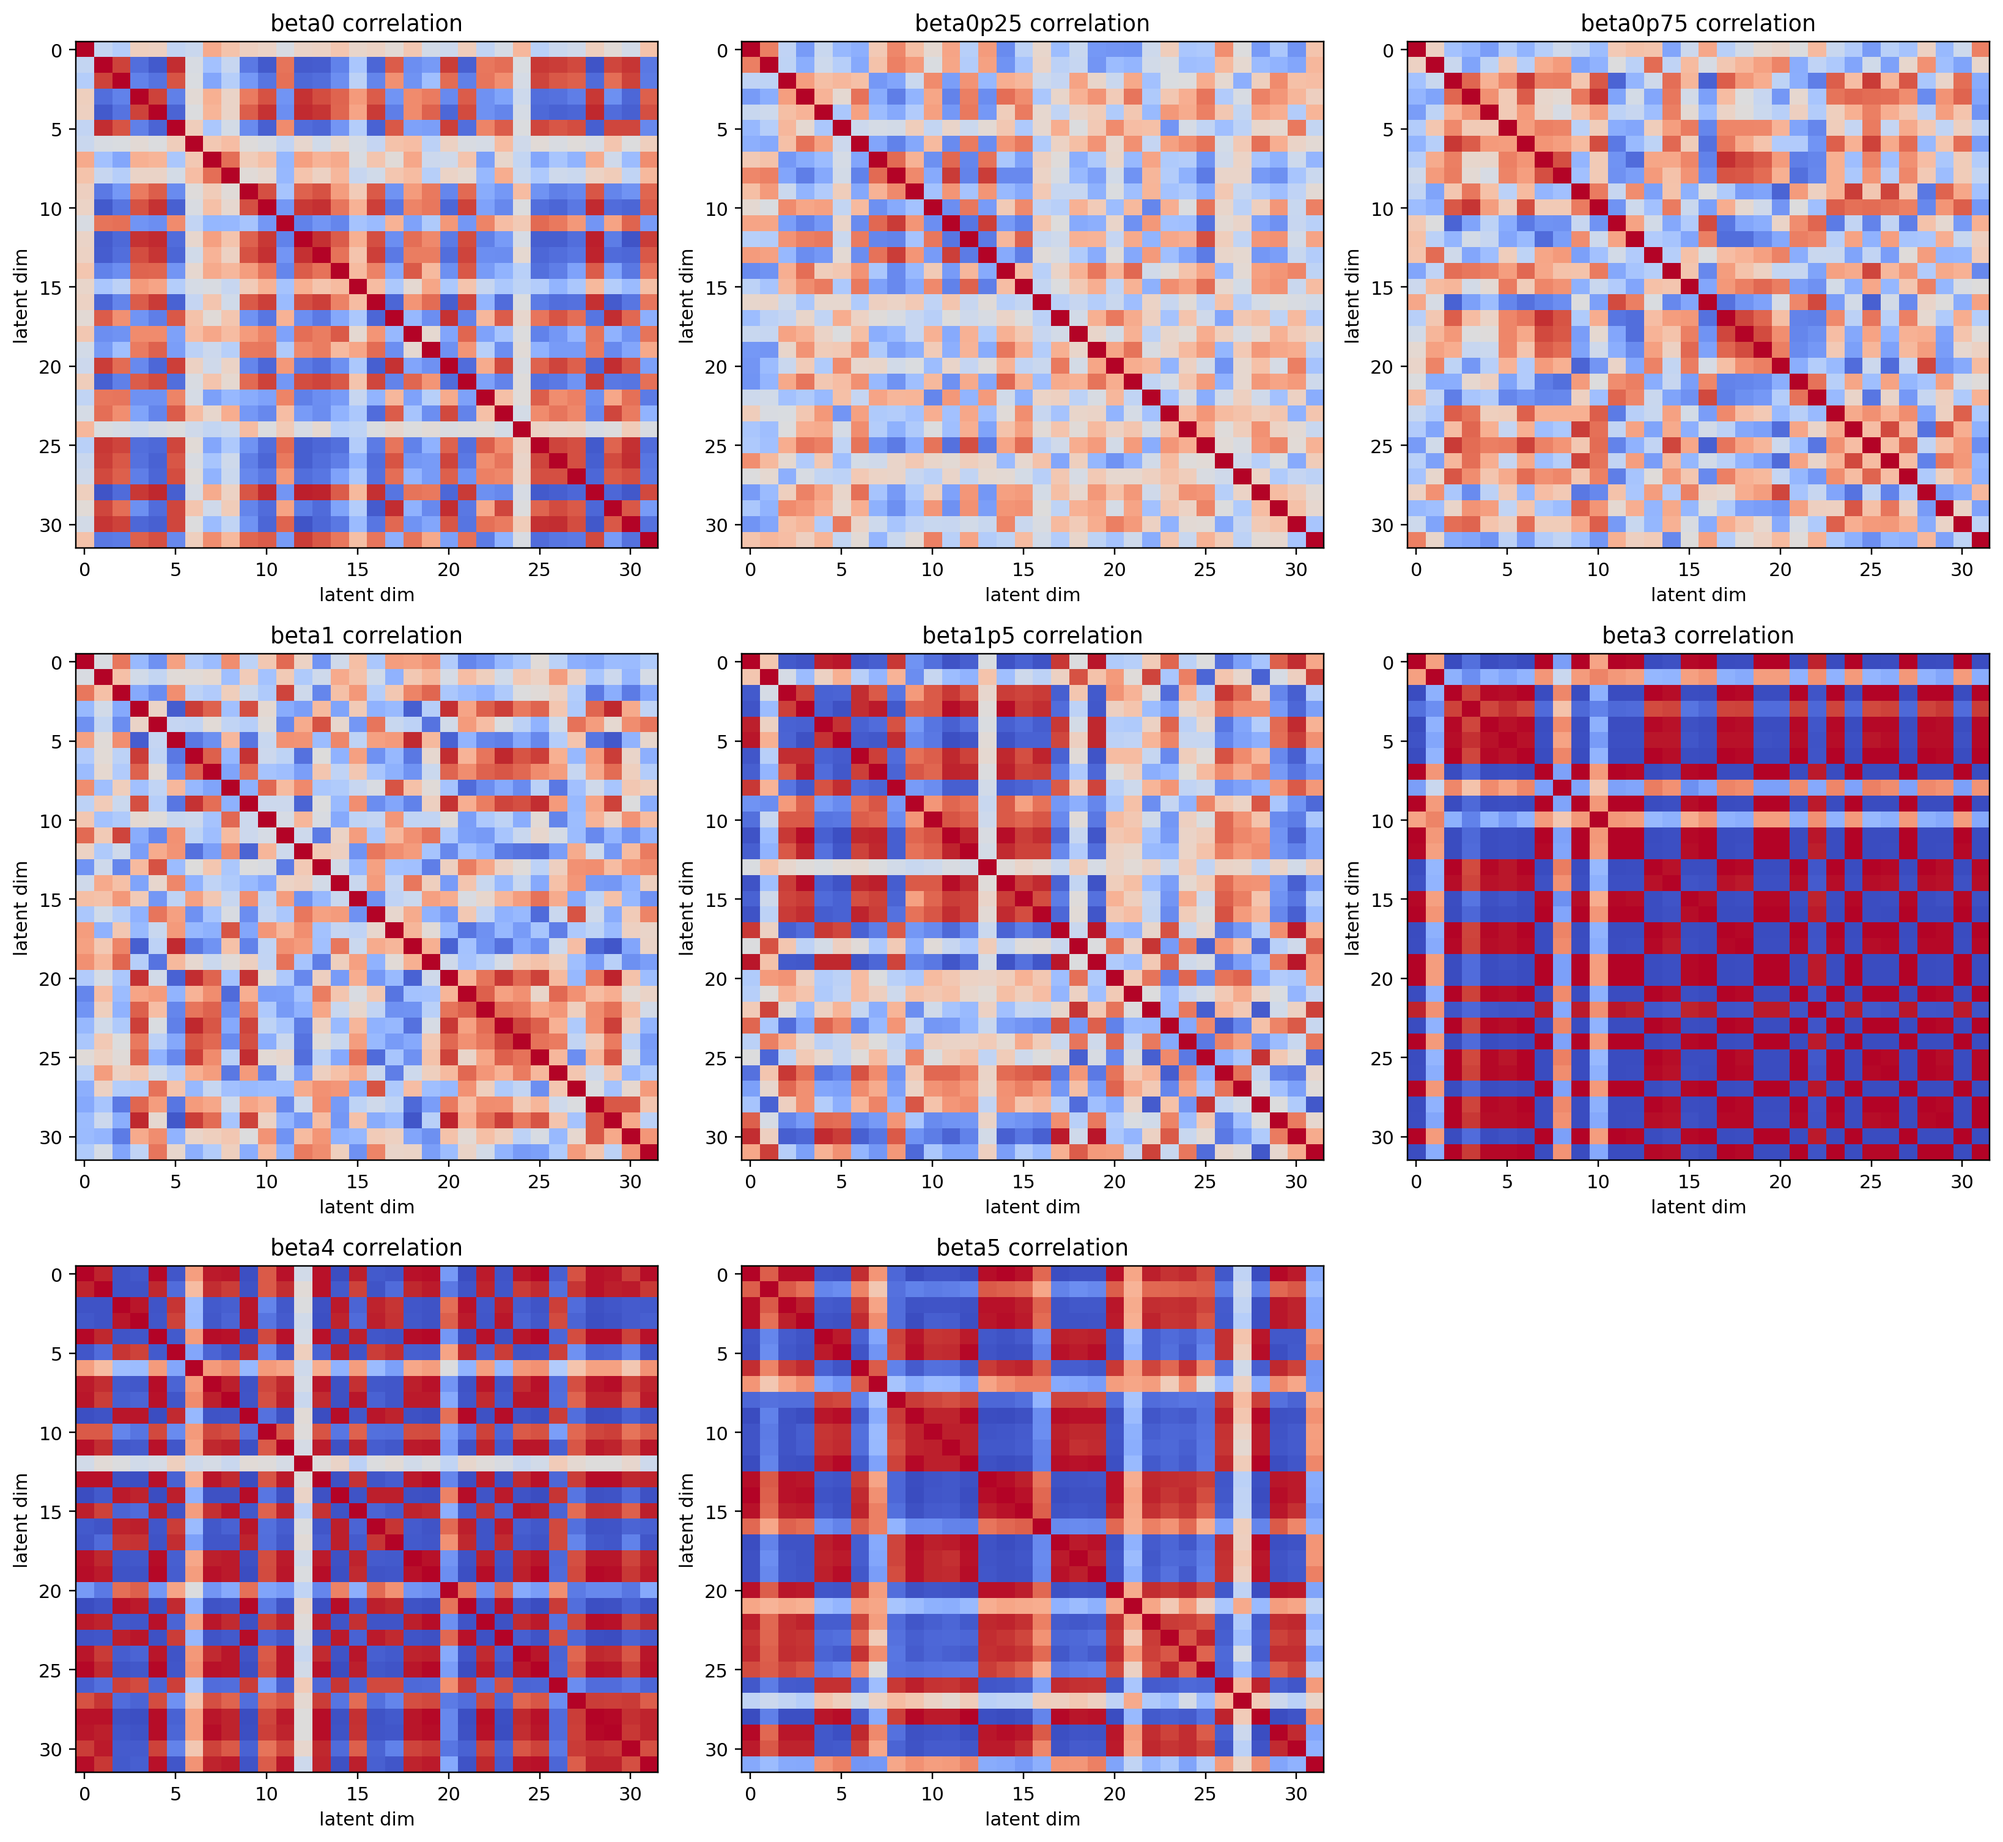
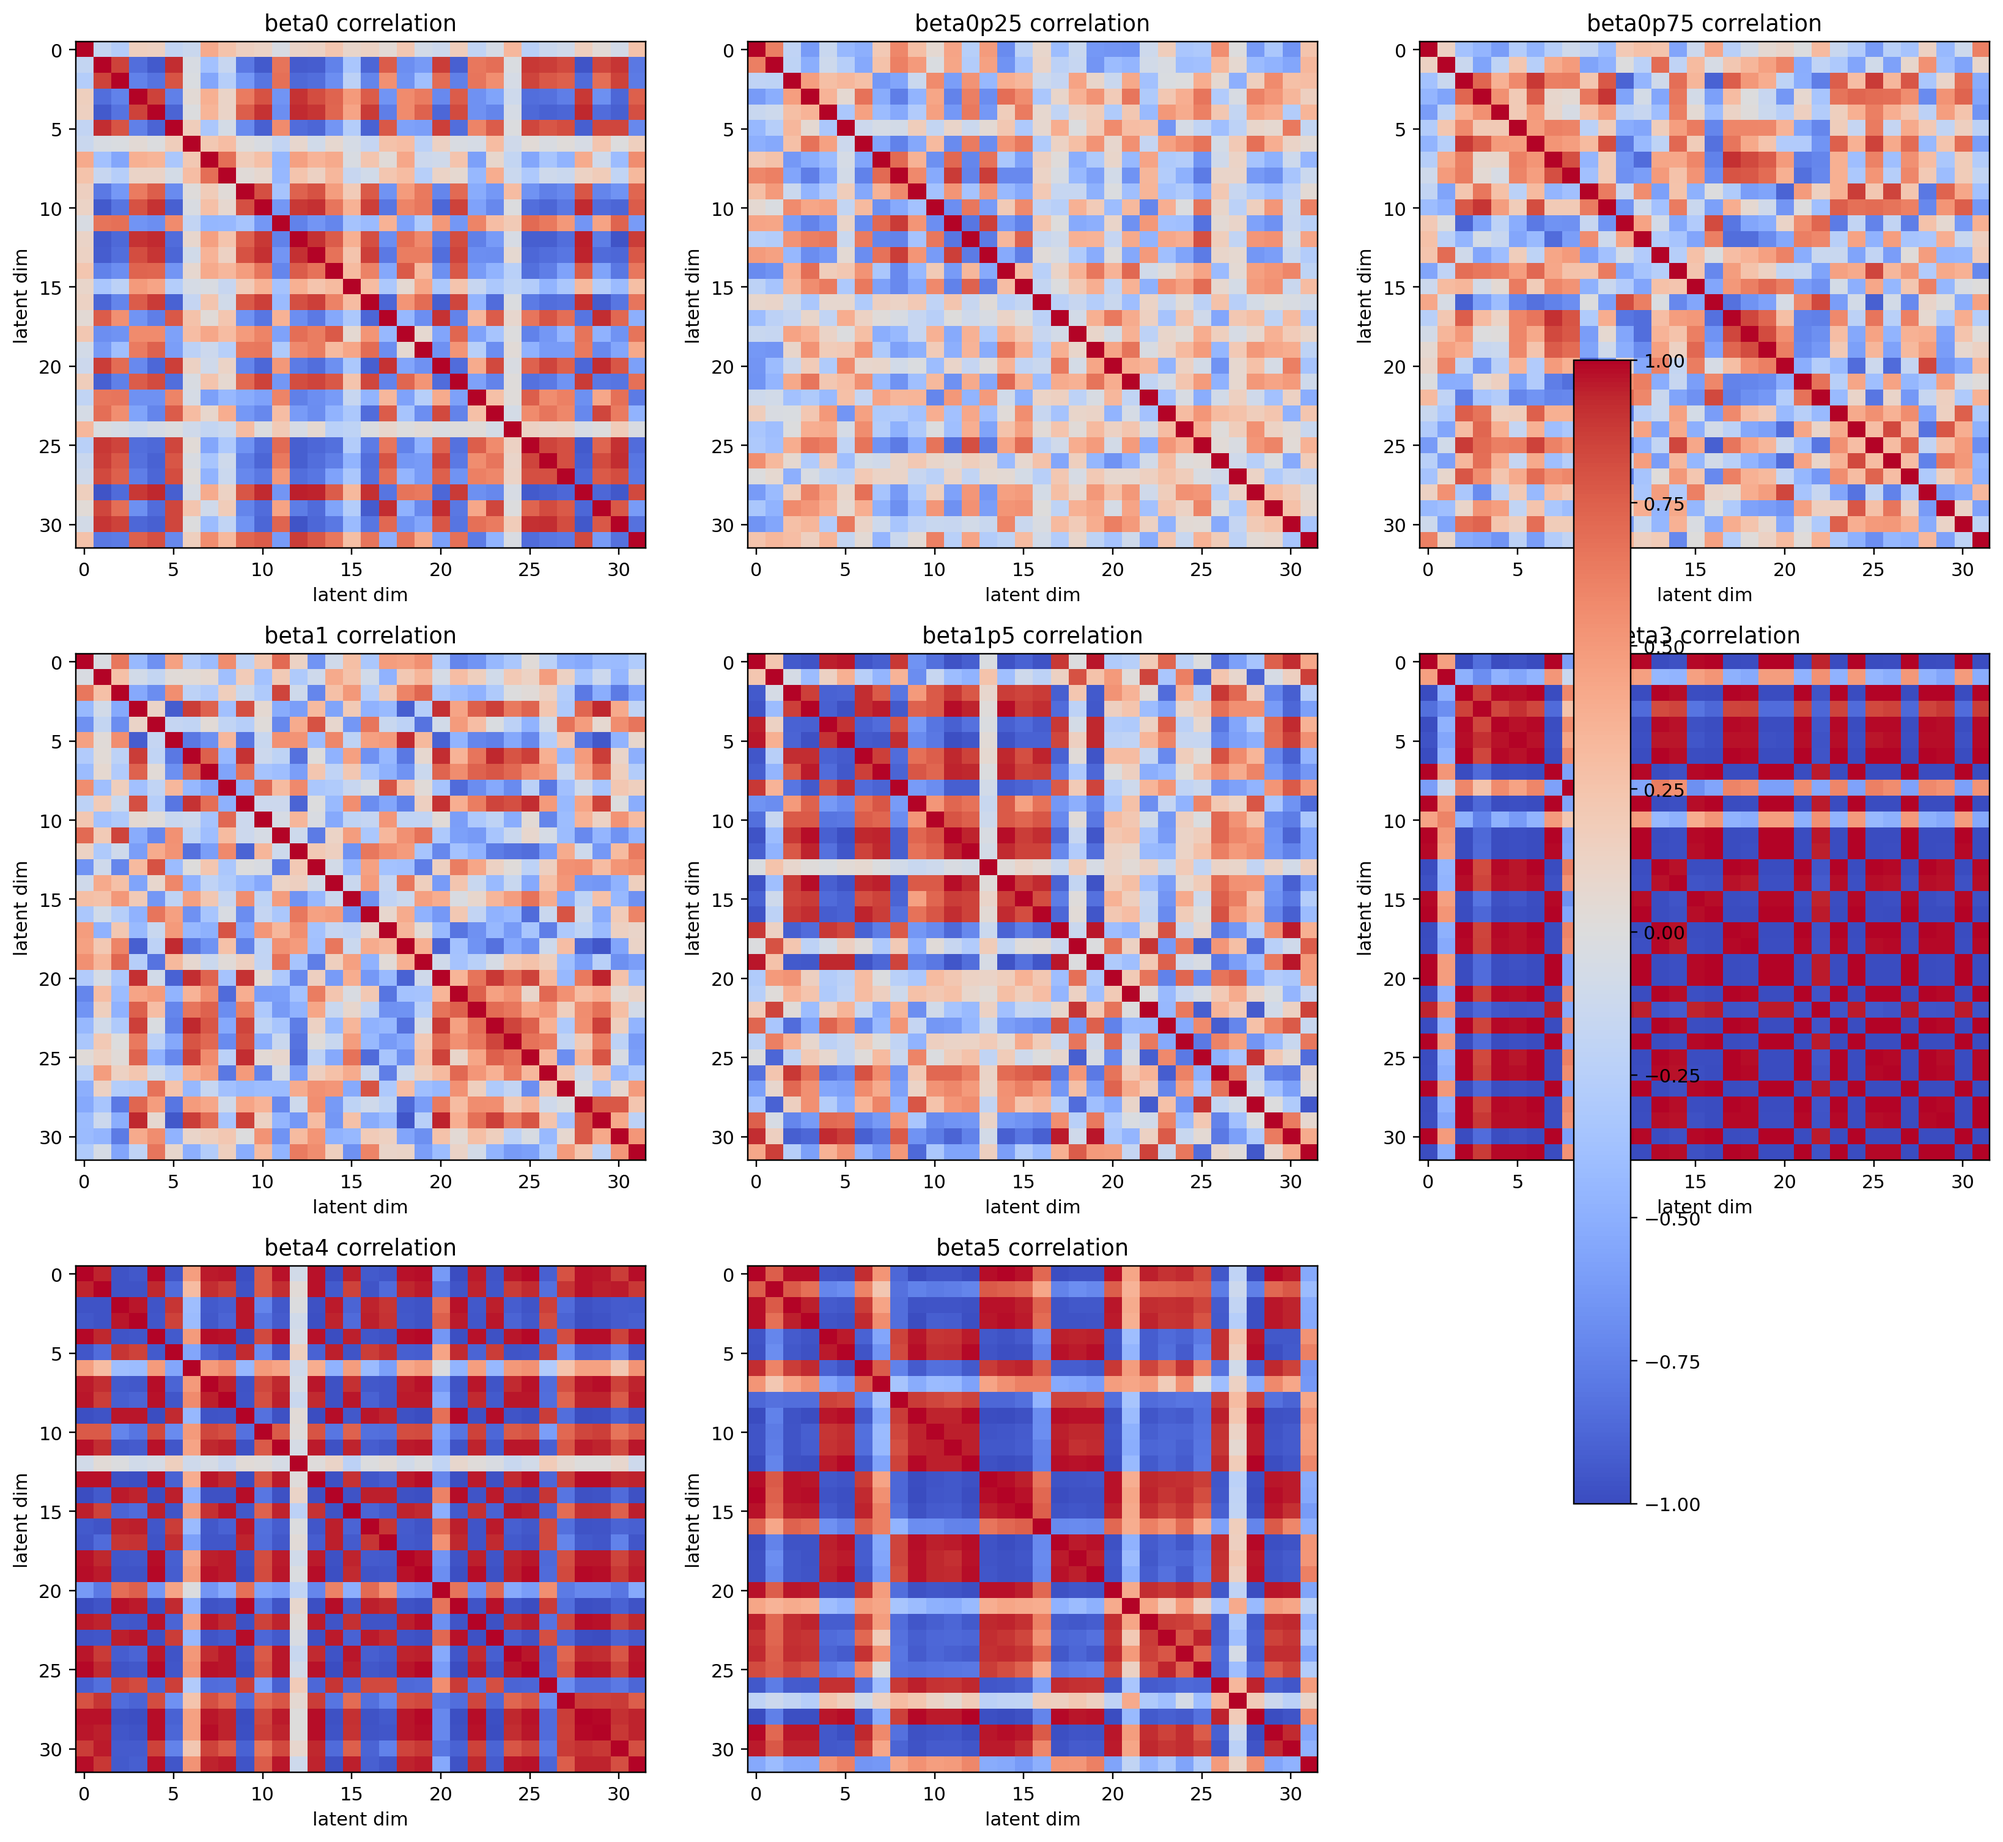
checking

Changed region(s): [[0.0623, 0.0, 0.467, 0.9987], [0.5604, 0.0, 0.9341, 0.8426], [0.5604, 0.6866, 0.685, 0.9675]]

diff --git a/VPL/pref_learn/utils/data_utils.py b/VPL/pref_learn/utils/data_utils.py
@@ -1,6 +1,7 @@
+
 import os
 import pickle
-from typing import Optional, Sequence, Tuple
+from typing import Optional, Tuple
 
 import numpy as np
 from tqdm import tqdm
@@ -13,6 +14,7 @@ PairKey = Tuple[SegmentKey, SegmentKey]
 
 
 def sample_from_env(env, num_query, len_set, len_query, data_dir):
+    """Fallback random sampler used by some environments."""
     assert len_query == 1
     observation_dim = env.reward_observation_space.shape[-1]
     action_dim = env.action_space.shape[-1]
@@ -26,25 +28,22 @@ def sample_from_env(env, num_query, len_set, len_query, data_dir):
     ).reshape(num_query, len_set, len_query, observation_dim)
     seg_act_1 = np.stack(
         [env.action_space.sample() for _ in range(num_query * len_set)], axis=1
-    ).reshape(num_query, len_set, len_query, observation_dim)
+    ).reshape(num_query, len_set, len_query, action_dim)
     seg_act_2 = np.stack(
         [env.action_space.sample() for _ in range(num_query * len_set)], axis=1
-    ).reshape(num_query, len_set, len_query, observation_dim)
+    ).reshape(num_query, len_set, len_query, action_dim)
     labels = np.zeros((num_query, len_set))
 
     query_path = os.path.join(
         data_dir, f"queries_num{num_query}_q{len_query}_s{len_set}"
     )
-    batch = {}
-    batch["labels"] = labels.reshape(num_query, len_set, 1)
-    batch["observations"] = seg_obs_1.reshape(
-        num_query, len_set, len_query, observation_dim
-    )
-    batch["observations_2"] = seg_obs_2.reshape(
-        num_query, len_set, len_query, observation_dim
-    )
-    batch["actions"] = seg_act_1.reshape(num_query, len_set, len_query, action_dim)
-    batch["actions_2"] = seg_act_2.reshape(num_query, len_set, len_query, action_dim)
+    batch = {
+        "labels": labels.reshape(num_query, len_set, 1),
+        "observations": seg_obs_1.reshape(num_query, len_set, len_query, observation_dim),
+        "observations_2": seg_obs_2.reshape(num_query, len_set, len_query, observation_dim),
+        "actions": seg_act_1.reshape(num_query, len_set, len_query, action_dim),
+        "actions_2": seg_act_2.reshape(num_query, len_set, len_query, action_dim),
+    }
     with open(query_path, "wb") as fp:
         pickle.dump(batch, fp)
 
@@ -56,7 +55,8 @@ def _segment_key(trj_idx: int, time_idx: int, len_query: int) -> SegmentKey:
 
 
 def _pair_key(seg_a: SegmentKey, seg_b: SegmentKey) -> PairKey:
-    return tuple(sorted((seg_a, seg_b)))  # order-invariant left/right pair id
+    # Order invariant so swapping left/right does not create a "new" query pair.
+    return tuple(sorted((seg_a, seg_b)))
 
 
 def _sample_segment(
@@ -79,8 +79,9 @@ def _sample_segment(
     assert end_idx <= trj_idx_list[trj_idx][1] + 1
 
     reward_seq = dataset["rewards"][start_idx:end_idx]
+    reward_sum = float(np.sum(reward_seq))
+
     if first_reward_sum is not None:
-        reward_sum = float(np.sum(reward_seq))
         if skip_flag == 1 and first_reward_sum == reward_sum:
             return None
         if skip_flag == 2 and first_reward_sum == reward_sum:
@@ -103,6 +104,7 @@ def _sample_segment(
         "act_seq": act_seq,
         "timestep_seq": timestep_seq,
         "seg_key": _segment_key(trj_idx, time_idx, len_query),
+        "reward_sum": reward_sum,
     }
 
 
@@ -120,15 +122,12 @@ def get_queries_from_multi(
 ):
     """Sample query pairs and group them into sets.
 
-    Improvements over the original implementation:
-      * avoids repeated unordered query pairs across the full dataset when
+    This version fixes the main issue in the original code:
+      * no repeated unordered query pairs across the full dataset when
         ``ensure_unique_pairs`` is True
-      * avoids reusing the same segment within a set when
+      * no repeated segment within a set when
         ``ensure_unique_segments_within_set`` is True
-      * stores trajectory/time metadata for easier auditing
-
-    Note: query uniqueness is enforced on the unordered segment pair
-    ((traj_1, time_1), (traj_2, time_2)), so swapping left/right counts as a repeat.
+      * stores trajectory/time metadata needed for auditing and downstream analysis
     """
     _num_query = num_query
     total_pairs = num_query * len_set
@@ -175,9 +174,8 @@ def get_queries_from_multi(
         for within_set_idx in range(len_set):
             pair_slot = set_idx * len_set + within_set_idx
             first_segment = None
-            first_reward_sum = None
 
-            for attempt in range(max_sampling_attempts_per_pair):
+            for _ in range(max_sampling_attempts_per_pair):
                 candidate_first = _sample_segment(
                     dataset,
                     trj_idx_list,
@@ -195,8 +193,8 @@ def get_queries_from_multi(
                 ):
                     continue
                 first_segment = candidate_first
-                first_reward_sum = float(np.sum(first_segment["reward_seq"]))
                 break
+
             if first_segment is None:
                 raise RuntimeError(
                     "Failed to sample the first segment for a query pair. "
@@ -205,7 +203,7 @@ def get_queries_from_multi(
                 )
 
             second_segment = None
-            for attempt in range(max_sampling_attempts_per_pair):
+            for _ in range(max_sampling_attempts_per_pair):
                 candidate_second = _sample_segment(
                     dataset,
                     trj_idx_list,
@@ -213,7 +211,7 @@ def get_queries_from_multi(
                     valid_trj_indices,
                     len_query,
                     skip_flag=skip_flag,
-                    first_reward_sum=first_reward_sum,
+                    first_reward_sum=first_segment["reward_sum"],
                 )
                 if candidate_second is None:
                     continue
@@ -229,6 +227,7 @@ def get_queries_from_multi(
                     continue
                 second_segment = candidate_second
                 break
+
             if second_segment is None:
                 raise RuntimeError(
                     "Failed to sample a unique second segment for a query pair. "
@@ -263,50 +262,28 @@ def get_queries_from_multi(
     seg_reward_1 = total_reward_seq_1.copy()
     seg_reward_2 = total_reward_seq_2.copy()
 
-    seg_obs_1 = total_obs_seq_1.copy()
-    seg_obs_2 = total_obs_seq_2.copy()
-
-    seg_next_obs_1 = total_next_obs_seq_1.copy()
-    seg_next_obs_2 = total_next_obs_seq_2.copy()
-
-    seq_act_1 = total_act_seq_1.copy()
-    seq_act_2 = total_act_seq_2.copy()
-
-    seq_timestep_1 = total_timestep_1.copy()
-    seq_timestep_2 = total_timestep_2.copy()
-
-    rational_labels = get_labels(seg_reward_1, seg_reward_2)
-
-    batch = {}
-    batch["labels"] = rational_labels.reshape(_num_query, len_set, 1)
-    batch["observations"] = seg_obs_1.reshape(
-        _num_query, len_set, len_query, observation_dim
-    )
-    batch["next_observations"] = seg_next_obs_1.reshape(
-        _num_query, len_set, len_query, observation_dim
-    )
-    batch["actions"] = seq_act_1.reshape(_num_query, len_set, len_query, action_dim)
-    batch["observations_2"] = seg_obs_2.reshape(
-        _num_query, len_set, len_query, observation_dim
-    )
-    batch["next_observations_2"] = seg_next_obs_2.reshape(
-        _num_query, len_set, len_query, observation_dim
-    )
-    batch["actions_2"] = seq_act_2.reshape(_num_query, len_set, len_query, action_dim)
-    batch["timestep_1"] = seq_timestep_1.reshape(_num_query, len_set, len_query)
-    batch["timestep_2"] = seq_timestep_2.reshape(_num_query, len_set, len_query)
-    batch["start_indices"] = start_indices_1.reshape(_num_query, len_set)
-    batch["start_indices_2"] = start_indices_2.reshape(_num_query, len_set)
-    batch["time_indices"] = time_indices_1.reshape(_num_query, len_set)
-    batch["time_indices_2"] = time_indices_2.reshape(_num_query, len_set)
-    batch["traj_indices"] = traj_indices_1.reshape(_num_query, len_set)
-    batch["traj_indices_2"] = traj_indices_2.reshape(_num_query, len_set)
+    batch = {
+        "labels": get_labels(seg_reward_1, seg_reward_2).reshape(_num_query, len_set, 1),
+        "observations": total_obs_seq_1.reshape(_num_query, len_set, len_query, observation_dim),
+        "next_observations": total_next_obs_seq_1.reshape(_num_query, len_set, len_query, observation_dim),
+        "actions": total_act_seq_1.reshape(_num_query, len_set, len_query, action_dim),
+        "observations_2": total_obs_seq_2.reshape(_num_query, len_set, len_query, observation_dim),
+        "next_observations_2": total_next_obs_seq_2.reshape(_num_query, len_set, len_query, observation_dim),
+        "actions_2": total_act_seq_2.reshape(_num_query, len_set, len_query, action_dim),
+        "timestep_1": total_timestep_1.reshape(_num_query, len_set, len_query),
+        "timestep_2": total_timestep_2.reshape(_num_query, len_set, len_query),
+        "start_indices": start_indices_1.reshape(_num_query, len_set),
+        "start_indices_2": start_indices_2.reshape(_num_query, len_set),
+        "time_indices": time_indices_1.reshape(_num_query, len_set),
+        "time_indices_2": time_indices_2.reshape(_num_query, len_set),
+        "traj_indices": traj_indices_1.reshape(_num_query, len_set),
+        "traj_indices_2": traj_indices_2.reshape(_num_query, len_set),
+    }
 
     with open(query_path, "wb") as fp:
         pickle.dump(batch, fp)
 
     return batch, query_path
-
 
 
 def get_labels(seg_reward_1, seg_reward_2):
